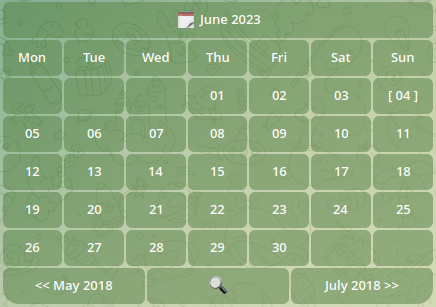
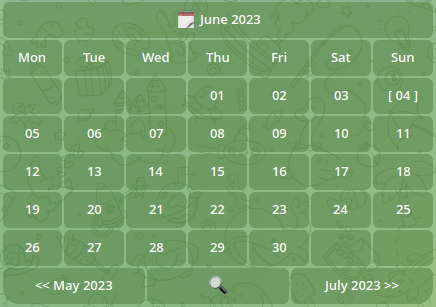
fix prev/next month buttons

diff --git a/src/aiogram_dialog/widgets/kbd/calendar_kbd.py b/src/aiogram_dialog/widgets/kbd/calendar_kbd.py
@@ -250,6 +250,7 @@ class CalendarDaysView(CalendarScopeView):
         next_month = (curr_month % 12) + 1
         prev_month = (curr_month - 2) % 12 + 1
         prev_end = month_begin(offset) - timedelta(1)
+        prev_begin = month_begin(prev_end)
         next_begin = next_month_begin(offset)
         if (
                 prev_end < self.config.min_date and
@@ -259,7 +260,7 @@ class CalendarDaysView(CalendarScopeView):
 
         prev_month_data = {
             "mongth": prev_month,
-            "date": BEARING_DATE.replace(month=prev_month),
+            "date": prev_begin,
             "data": data,
         }
         curr_month_data = {
@@ -269,7 +270,7 @@ class CalendarDaysView(CalendarScopeView):
         }
         next_month_data = {
             "month": next_month,
-            "date": BEARING_DATE.replace(month=next_month),
+            "date": next_begin,
             "data": data,
         }
         if prev_end < self.config.min_date:
